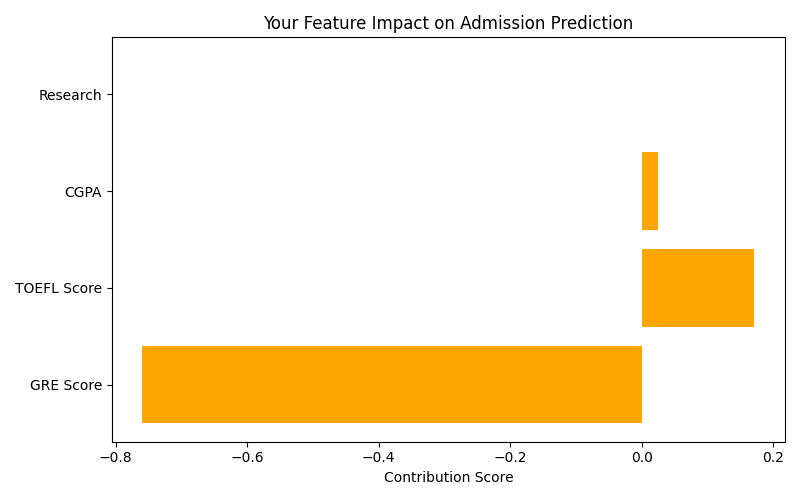
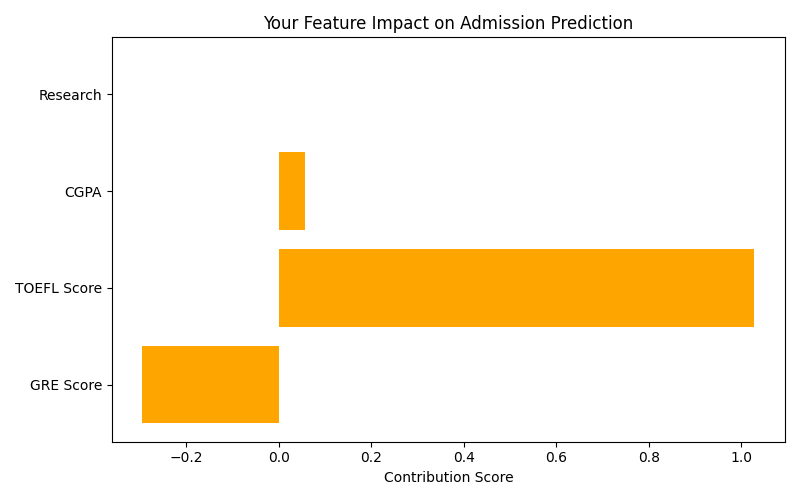
admission prediction with smart recommendation is provided to the specific student

diff --git a/frontend/student_admission_predictor/src/App.jsx b/frontend/student_admission_predictor/src/App.jsx
@@ -73,7 +73,15 @@ function App() {
 
             {result && (
               <div className="mt-6">
-                <h2>🧠 Admission Chance: {result.admission_chance}%</h2>
+                <h1>🧠 Admission Chance: {result.admission_chance}%</h1>
+                <div>
+                  {" "}
+                  <h3>✅ Recommendations 🎯 </h3>
+                  <p className="text-red-700 font-semibold">
+                    {result.recommendations}
+                  </p>
+                </div>
+
                 <img
                   src={`http://localhost:5000${result.suggestion_graph}`}
                   alt="Improvement Chart"

diff --git a/ml_model/app.py b/ml_model/app.py
@@ -24,19 +24,20 @@ def predict():
     cgpa = float(data["cgpa"])
     research = int(data["research"])
 
+    # Prepare input for model
     input_features = np.array([[gre, toefl, cgpa, research]])
     prob = model.predict_proba(input_features)[0][1] * 100
 
-    # Get coefficients
+    # Coefficients and normalization
     coefs = model.coef_[0]
     feature_names = ["GRE Score", "TOEFL Score", "CGPA", "Research"]
     user_values = [gre, toefl, cgpa, research]
+    max_values = [340, 120, 4.0, 1]  # Max values for normalization
 
-    max_values = [340, 120, 4.0, 1]  # max realistic values
     normalized = [val / max_v for val, max_v in zip(user_values, max_values)]
-
     contributions = [coef * norm for coef, norm in zip(coefs, normalized)]
 
+    # Create feature contribution graph
     plt.figure(figsize=(8, 5))
     plt.barh(feature_names, contributions, color="orange")
     plt.xlabel("Contribution Score")
@@ -46,10 +47,26 @@ def predict():
     plt.savefig(image_path)
     plt.close()
 
+    # Generate smart recommendations
+    recommendations = []
+    threshold = 0.8  # Feature score threshold
+
+    for norm, coef, name in zip(normalized, coefs, feature_names):
+        if norm < threshold and coef > 0:
+            if name == "Research":
+                recommendations.append(
+                    "Having research experience can significantly improve your chances. Try to participate in one."
+                )
+            else:
+                recommendations.append(
+                    f"Your {name} is relatively low. Improving it may increase your chances of admission."
+                )
+
     return jsonify(
         {
             "admission_chance": round(prob, 2),
             "suggestion_graph": "/static/feature_contribution_user.png",
+            "recommendations": recommendations,
         }
     )
 
